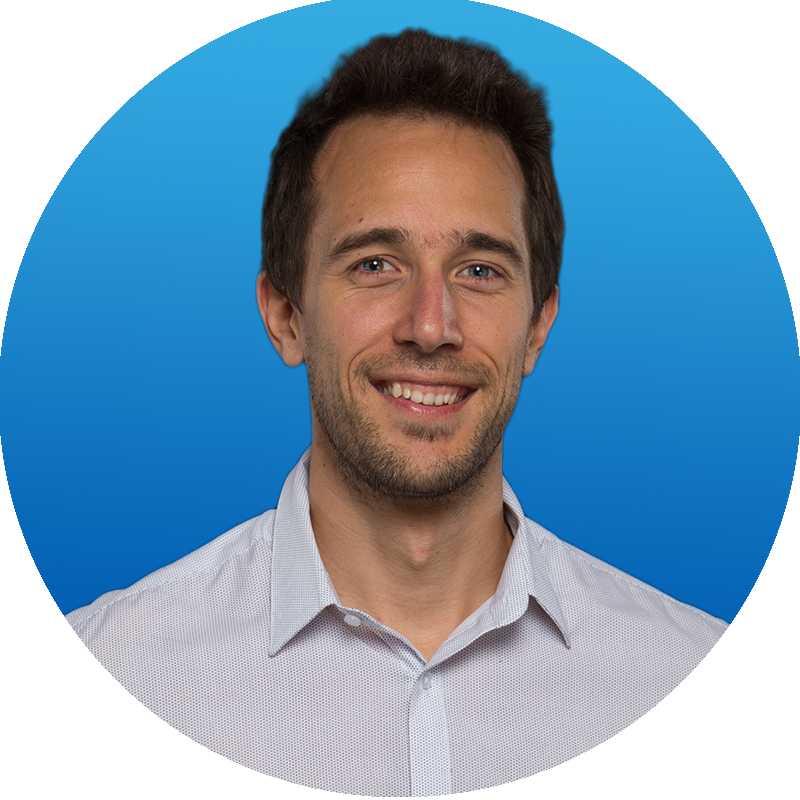
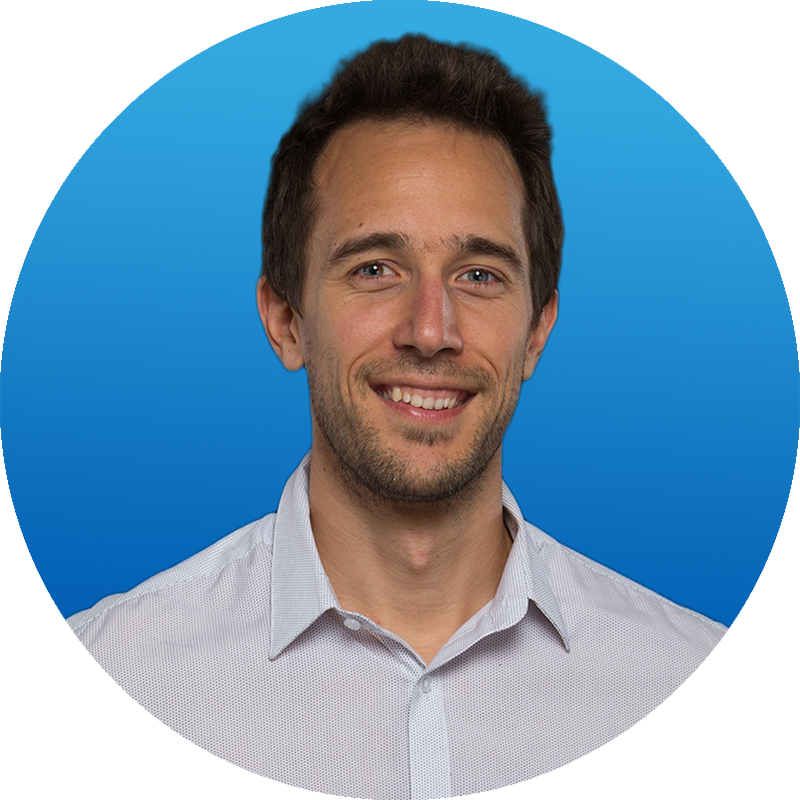
- rounded profile fixed - 404 page properly created

diff --git a/src/pages/404.js b/src/pages/404.js
@@ -1,14 +1,30 @@
 import React from 'react';
-import { Layout } from '../components';
 import { Link } from 'gatsby';
+import { Content, Image } from 'react-bulma-components';
+import { Layout, ContactPoints, Divider } from '../components';
+import { roundedProfilePicture } from '../images';
 
 const NotFound = () => {
     return (
         <Layout>
-            <h1>Well, this page doesn't exist</h1>
-            <p>
-                <Link to="/">Let's go back to the main page.</Link>
-            </p>
+            <Content className="has-text-centered pt-6">
+                <h1 className="has-text-weight-bold">Well, this page doesn't exist</h1>
+                <p small={true}>but probably you've been looking for this</p>
+                <Divider />
+                <Image src={roundedProfilePicture} className="is-inline-block mb-0 mt-2" size={128} alt="Profile" />
+                <h2 className="title is-size-3 is-bold mt-0">László Békéssy</h2>
+                <div className="m-0">
+                    <ContactPoints />
+                </div>
+                <Divider />
+                <div className="mt-6">
+                    <Link to="/">→ Let's go back to the main page ←</Link>
+                </div>
+            </Content>
+
+            <div></div>
+
+            <p></p>
         </Layout>
     );
 };
